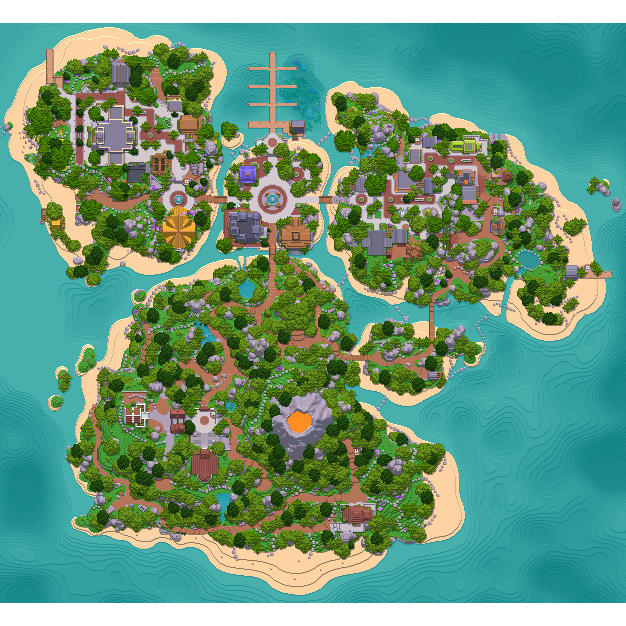
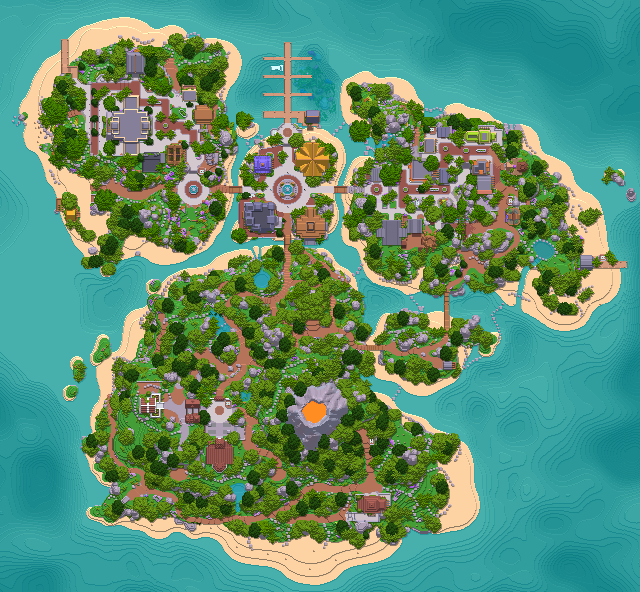
fix(mapData): update dimensions and reference points for spawn and quadra plains maps

diff --git a/src/components/map/mapData.ts b/src/components/map/mapData.ts
@@ -26,8 +26,8 @@ export const mapData: Record<string, MapDataConfig> = {
     spawn: {
         imageUrl: "assets/media/maps/spawn.png",
         previewUrl: "assets/media/preview_map/spawn.png",
-        width: 626,
-        height: 626,
+        width: 640,
+        height: 592,
         name: "Spawn Island",
         mapProperties: {
             minZoom: 0.5,
@@ -35,7 +35,7 @@ export const mapData: Record<string, MapDataConfig> = {
         },
         requiredLevel: 0,
         description: "",
-        referencePoint: { x: 98, y: 313 },
+        referencePoint: { x: 113, y: 290 },
         markerRefs: [
             "log_coconuts",
             "log_banana",
@@ -181,7 +181,7 @@ export const mapData: Record<string, MapDataConfig> = {
         imageUrl: "assets/media/maps/quadra_plains.png",
         previewUrl: "assets/media/preview_map/quadra_plains.png",
         width: 608,
-        height: 608,
+        height: 560,
         name: "Quadra Plains",
         mapProperties: {
             minZoom: 0.5,
@@ -189,7 +189,7 @@ export const mapData: Record<string, MapDataConfig> = {
         },
         requiredLevel: 10,
         description: "",
-        referencePoint: { x: 80.5, y: 51 },
+        referencePoint: { x: 81, y: 16 },
         markerRefs: [
             "log_chestnut",
             "log_walnut",
@@ -248,8 +248,8 @@ export const mapData: Record<string, MapDataConfig> = {
     frostbite_fortress: {
         imageUrl: "assets/media/maps/frostbite_fortress.png",
         previewUrl: "assets/media/preview_map/frostbite_fortress.png",
-        width: 720,
-        height: 720,
+        width: 752,
+        height: 752,
         name: "Frostbite Fortress",
         mapProperties: {
             minZoom: 0.25,
